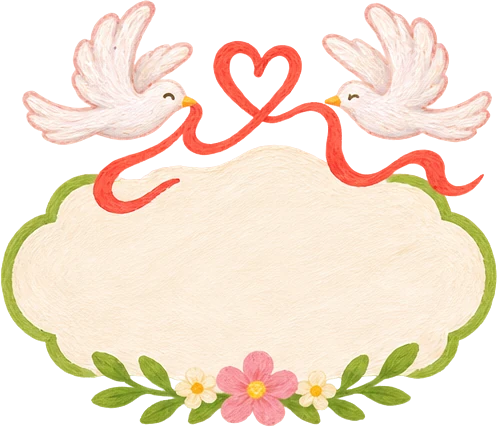
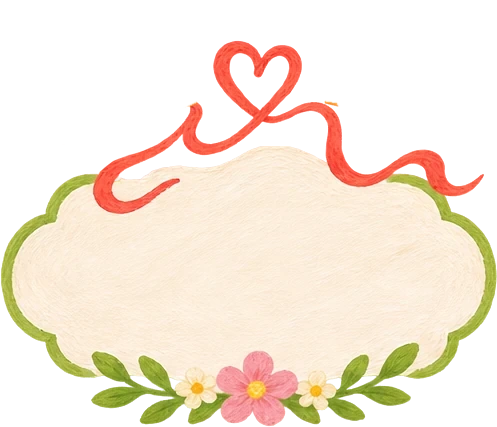
Move animated doves away from the invitation heart

Changed region(s): [[0.0302, 0.0, 0.3924, 0.3653], [0.6338, 0.0, 0.996, 0.3349]]

diff --git a/src/styles/guest.css b/src/styles/guest.css
@@ -521,6 +521,67 @@
   outline-offset: 4px;
 }
 
+.guest-site .gouache-greeting {
+  position: relative;
+}
+
+.guest-site .greeting-doves {
+  position: absolute;
+  inset: 0;
+  direction: ltr;
+  pointer-events: none;
+}
+
+.guest-site .greeting-dove {
+  position: absolute;
+  top: 7px;
+  width: clamp(48px, 20%, 79px);
+  aspect-ratio: 1.2;
+}
+
+.guest-site .greeting-dove-left {
+  left: 5%;
+}
+
+.guest-site .greeting-dove-right {
+  right: 5%;
+  transform: scaleX(-1);
+}
+
+.guest-site .greeting-dove img {
+  position: absolute;
+}
+
+.guest-site .greeting-dove-body {
+  width: 100%;
+  left: 0;
+  top: 32%;
+}
+
+.guest-site .greeting-dove-wing {
+  width: 66%;
+  left: 12%;
+  top: -2%;
+  transform-origin: 80% 85%;
+  animation: greeting-wing 1.9s ease-in-out infinite alternate;
+}
+
+.guest-site .greeting-dove-wing.far-wing {
+  left: 25%;
+  top: -7%;
+  transform-origin: 69% 91%;
+  animation-direction: alternate-reverse;
+}
+
+@keyframes greeting-wing {
+  from {
+    rotate: -7deg;
+  }
+  to {
+    rotate: 9deg;
+  }
+}
+
 .guest-site .guest-name-frame {
   display: grid;
   place-items: center;

diff --git a/src/pages/Guest.jsx b/src/pages/Guest.jsx
@@ -3,7 +3,13 @@ import { useParams, Link } from "react-router-dom";
 import { api, isDemo } from "../services/api";
 import { useEvent } from "../hooks/useEvent";
 import Field from "../components/Field";
-import { Art, Bloom, Couple, preloadBloom } from "../components/Gouache";
+import {
+  Art,
+  Bloom,
+  Couple,
+  Greeting,
+  preloadBloom,
+} from "../components/Gouache";
 
 const choices = [
   { value: "yes", label: "מגיעים!", icon: "tick" },
@@ -164,9 +170,7 @@ function Invitation({ token }) {
           <header className="invitation-hero">
             <Art name="cloud-left" className="hero-cloud hero-cloud-left" />
             <Art name="cloud-right" className="hero-cloud hero-cloud-right" />
-            <p className="guest-name-frame">
-              {inv?.name?.trim() || "נשמח לחגוג איתכם!"}
-            </p>
+            <Greeting name={inv?.name} />
             <h1>
               החתונה של <strong>{event.names}</strong>
             </h1>

diff --git a/src/components/Gouache.jsx b/src/components/Gouache.jsx
@@ -15,6 +15,23 @@ export function Art({ name, className, alt = "" }) {
   );
 }
 
+export function Greeting({ name }) {
+  return (
+    <div className="gouache-greeting">
+      <div className="greeting-doves" aria-hidden="true">
+        {["left", "right"].map((side) => (
+          <div key={side} className={`greeting-dove greeting-dove-${side}`}>
+            <Art name="dove-far-wing" className="greeting-dove-wing far-wing" />
+            <Art name="dove-body" className="greeting-dove-body" />
+            <Art name="dove-wing" className="greeting-dove-wing near-wing" />
+          </div>
+        ))}
+      </div>
+      <p className="guest-name-frame">{name?.trim() || "נשמח לחגוג איתכם!"}</p>
+    </div>
+  );
+}
+
 export function Couple({ image }) {
   const custom =
     image && !["/couple.svg", "/images/couple.svg"].includes(image);
